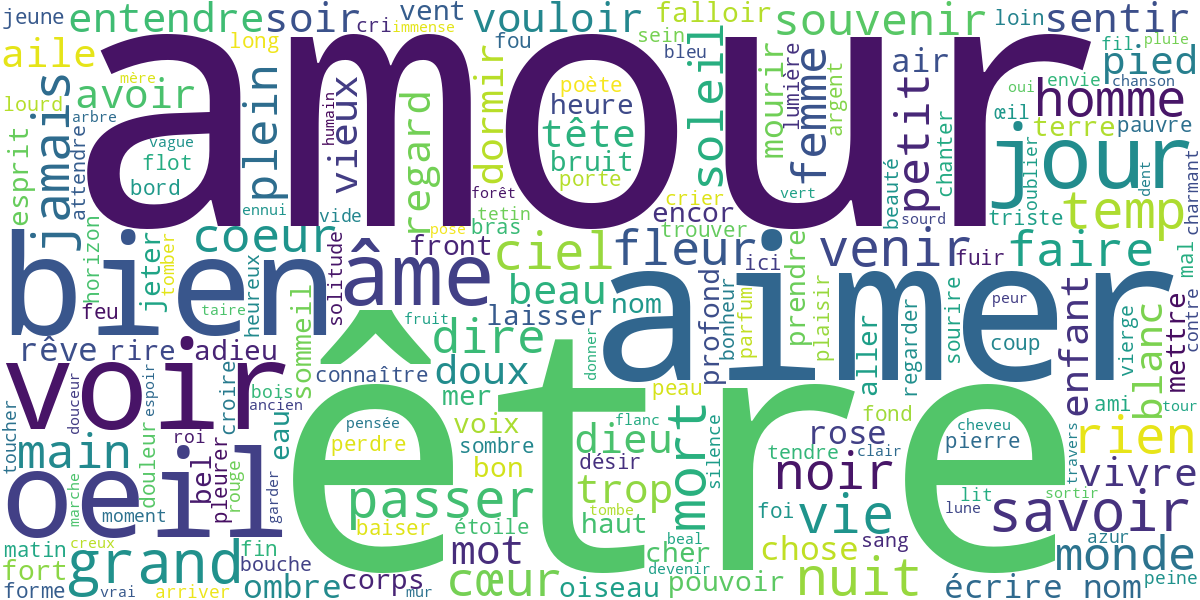
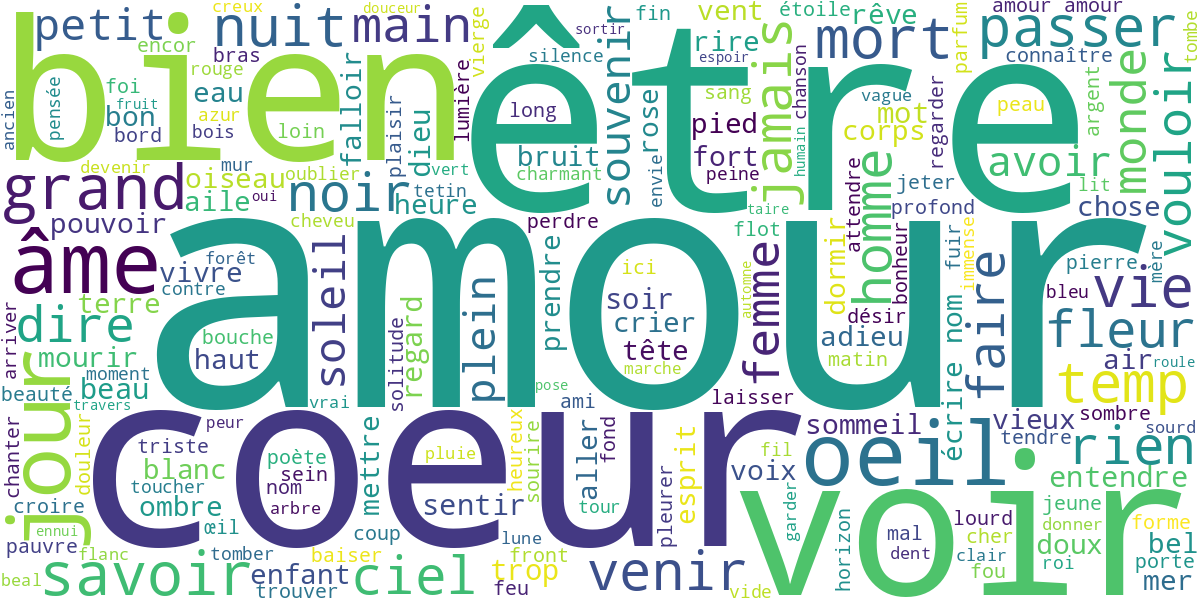
novo bertopic

diff --git a/modelagemTopicos/bertopic3.py b/modelagemTopicos/bertopic3.py
@@ -60,7 +60,7 @@ normalizacao_lemas = {
     "aimé": "amour",
     "aimer": "amour",
     "cœur": "coeur",
-    "mourrir": "mort",
+    "mourir": "mort",
     "cri": "crier",
 }
 
